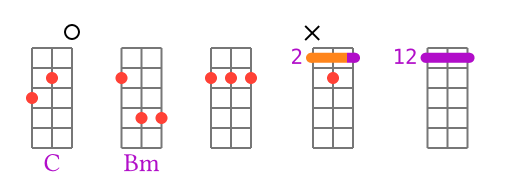
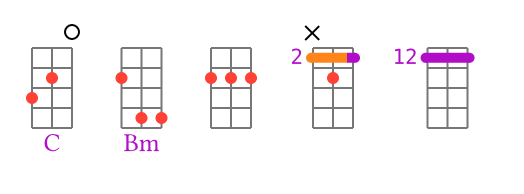
Add more tests / examples

diff --git a/README.md b/README.md
@@ -153,6 +153,8 @@ It is easy to customize the colors and styles of chords with `colors` argument a
         barre: purple,),
     // bar number displayed to left
     number-to-left: true,
+    // the height of diagram in frets
+    shown-frets-number: 4,
     // disable thick first line when chord played without shift
     thick-nut: false
 )
